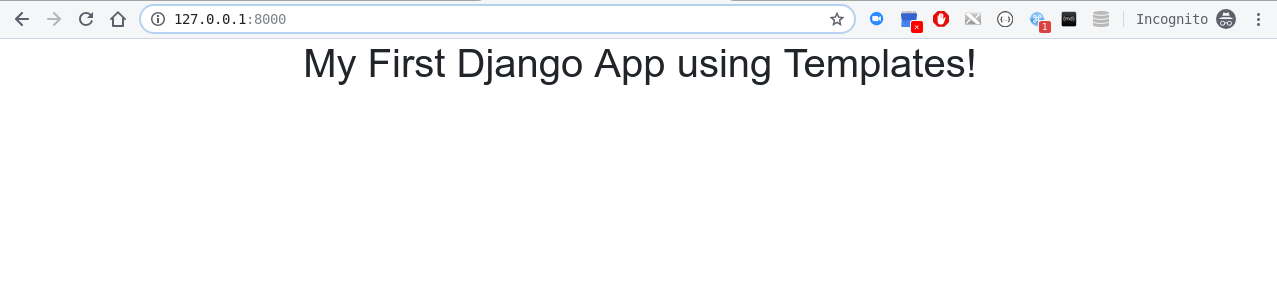
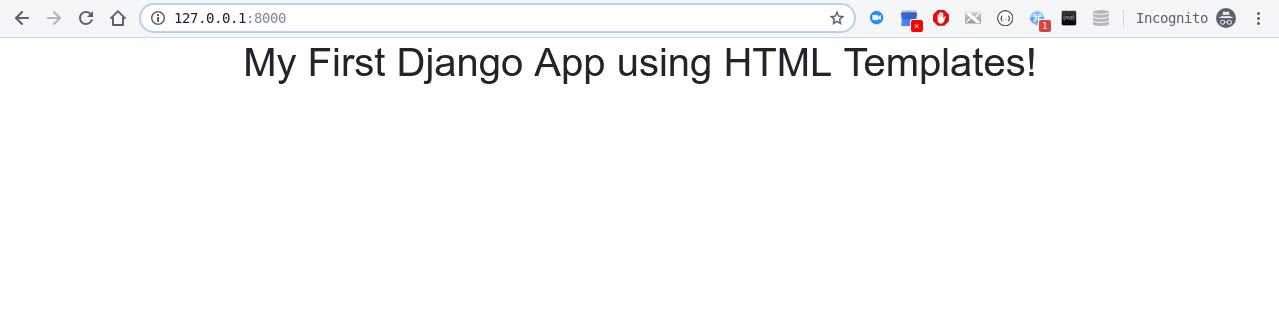
added the code and docs for running a django app using a html templates, update 02

Changed region(s): [[0.0, 0.0, 1.0, 0.3114]]

diff --git a/Python 301/002-DjangoTemplates/src/templates/myhomepage.html b/Python 301/002-DjangoTemplates/src/templates/myhomepage.html
@@ -8,11 +8,11 @@
     <!-- Bootstrap CSS -->
     <link rel="stylesheet" href="https://stackpath.bootstrapcdn.com/bootstrap/4.3.1/css/bootstrap.min.css" integrity="sha384-ggOyR0iXCbMQv3Xipma34MD+dH/1fQ784/j6cY/iJTQUOhcWr7x9JvoRxT2MZw1T" crossorigin="anonymous">
 
-    <title>My First Django App using Templates!</title>
+    <title>My First Django App using HTML Templates!</title>
 </head>
 <body>
     <div class="text-center">
-        <h1>My First Django App using Templates!</h1>
+        <h1>My First Django App using HTML Templates!</h1>
     </div>
     <!-- Optional JavaScript -->
     <!-- jQuery first, then Popper.js, then Bootstrap JS -->

diff --git a/Python 301/002-DjangoTemplates/src/ecommhome/myviews.py b/Python 301/002-DjangoTemplates/src/ecommhome/myviews.py
@@ -4,3 +4,32 @@ from django.shortcuts import render
 # define the custom home page 
 def myhome(request):
     return render(request, "myhomepage.html", {})
+def myhome_discarded(request):
+    content = """
+    <!doctype html>
+    <html lang="en">
+    <head>
+        <!-- Required meta tags -->
+        <meta charset="utf-8">
+        <meta name="viewport" content="width=device-width, initial-scale=1, shrink-to-fit=no">
+
+        <!-- Bootstrap CSS -->
+        <link rel="stylesheet" href="https://stackpath.bootstrapcdn.com/bootstrap/4.3.1/css/bootstrap.min.css" integrity="sha384-ggOyR0iXCbMQv3Xipma34MD+dH/1fQ784/j6cY/iJTQUOhcWr7x9JvoRxT2MZw1T" crossorigin="anonymous">
+
+        <title>My First Django App using Inline Templates!</title>
+    </head>
+    <body>
+        <div class="text-center">
+            <h1>My First Django App using Inline Templates!</h1>
+        </div>
+        <!-- Optional JavaScript -->
+        <!-- jQuery first, then Popper.js, then Bootstrap JS -->
+        <script src="https://code.jquery.com/jquery-3.3.1.slim.min.js" integrity="sha384-q8i/X+965DzO0rT7abK41JStQIAqVgRVzpbzo5smXKp4YfRvH+8abtTE1Pi6jizo" crossorigin="anonymous"></script>
+        <script src="https://cdnjs.cloudflare.com/ajax/libs/popper.js/1.14.7/umd/popper.min.js" integrity="sha384-UO2eT0CpHqdSJQ6hJty5KVphtPhzWj9WO1clHTMGa3JDZwrnQq4sF86dIHNDz0W1" crossorigin="anonymous"></script>
+        <script src="https://stackpath.bootstrapcdn.com/bootstrap/4.3.1/js/bootstrap.min.js" integrity="sha384-JjSmVgyd0p3pXB1rRibZUAYoIIy6OrQ6VrjIEaFf/nJGzIxFDsf4x0xIM+B07jRM" crossorigin="anonymous"></script>
+    </body>
+    </html>
+    """
+    return HttpResponse(content)
+
+
